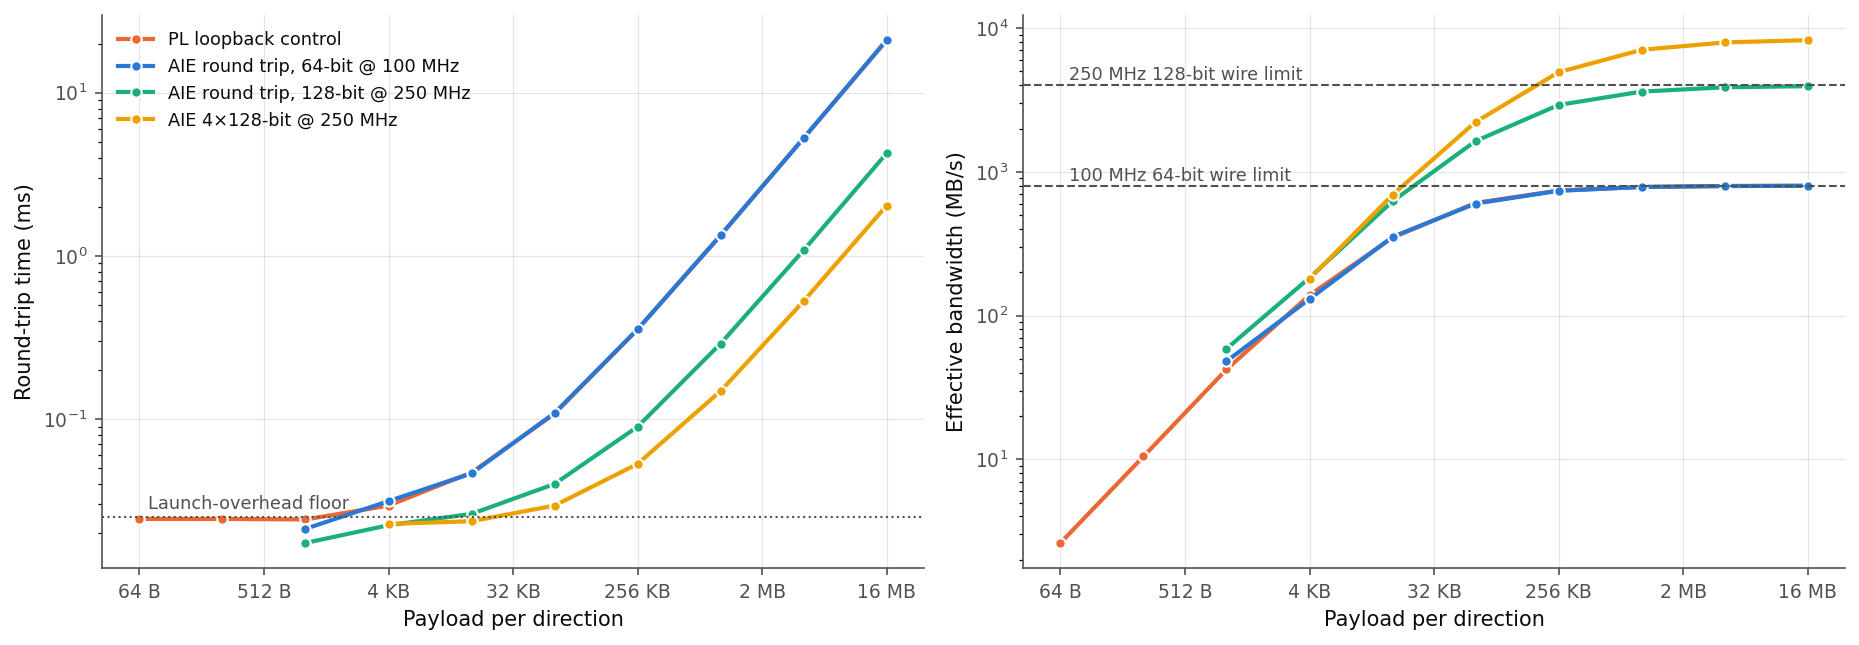
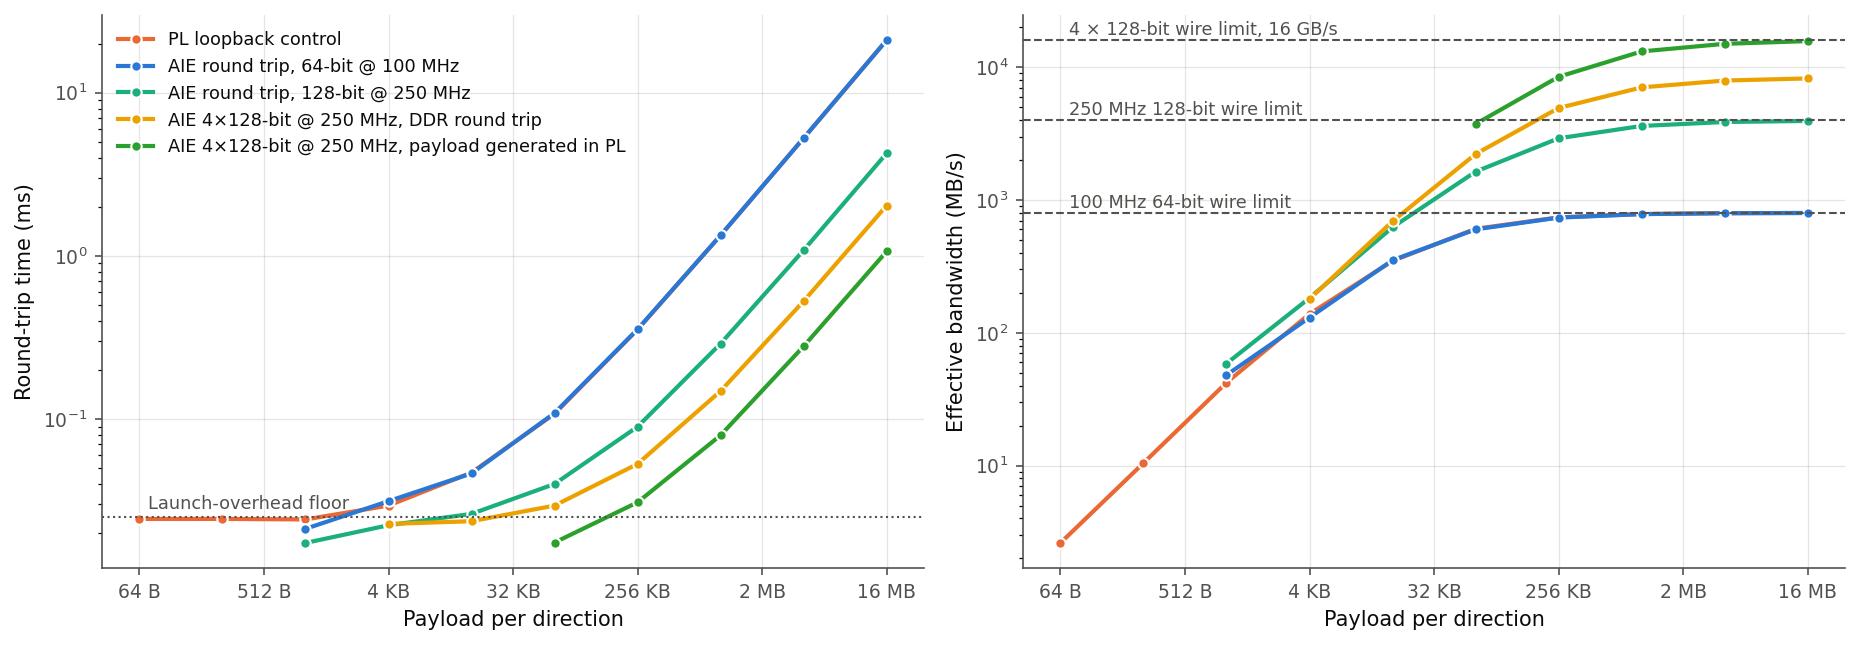
link bench: the 8.2 GB/s four-channel cap is memory-side, confirmed
Generating the payload inside the PL and reducing the return data there,
with no DDR traffic in the timed loop, the same four 128-bit channels
reach 15.7 GB/s per direction (98% of the 16 GB/s wire total). Mapping
the write buffer to LPDDR4 instead made things worse (1.6 GB/s), so the
second controller is not a relief valve. The links and AI Engine array
are not the limit; the shared DDR4 path is.

diff --git a/scripts/make_link_benchmark_charts.py b/scripts/make_link_benchmark_charts.py
@@ -24,7 +24,8 @@ SERIES = [
     ("sweep_v2_64bit_100mhz.csv", "lb",   C["orange"], "PL loopback control"),
     ("sweep_v2_64bit_100mhz.csv", "ptw",  C["blue"],   "AIE round trip, 64-bit @ 100 MHz"),
     ("sweep_v3_hw.csv",           "p128", C["aqua"],   "AIE round trip, 128-bit @ 250 MHz"),
-    ("sweep_v3_hw.csv",           "q512", C["yellow"], "AIE 4×128-bit @ 250 MHz"),
+    ("sweep_v3_hw.csv",           "q512", C["yellow"], "AIE 4×128-bit @ 250 MHz, DDR round trip"),
+    ("sweep_noddr_hw.csv",        "qnod", "#2ca02c",   "AIE 4×128-bit @ 250 MHz, payload generated in PL"),
 ]
 
 def load(fname, key):
@@ -91,6 +92,10 @@ for mode, ax in (("latency", axL), ("bandwidth", axB)):
             ax.axhline(4000, color=INK2, linestyle="--", linewidth=1)
             ax.annotate("250 MHz 128-bit wire limit", xy=(2**6.2, 4060),
                         color=INK2, fontsize=8.5, va="bottom")
+            if any("payload" in l for _, _, l in loaded):
+                ax.axhline(16000, color=INK2, linestyle="--", linewidth=1)
+                ax.annotate("4 × 128-bit wire limit, 16 GB/s", xy=(2**6.2, 16300),
+                            color=INK2, fontsize=8.5, va="bottom")
             ax.set_yscale("log")
         else:
             ax.set_ylim(0, 900)
